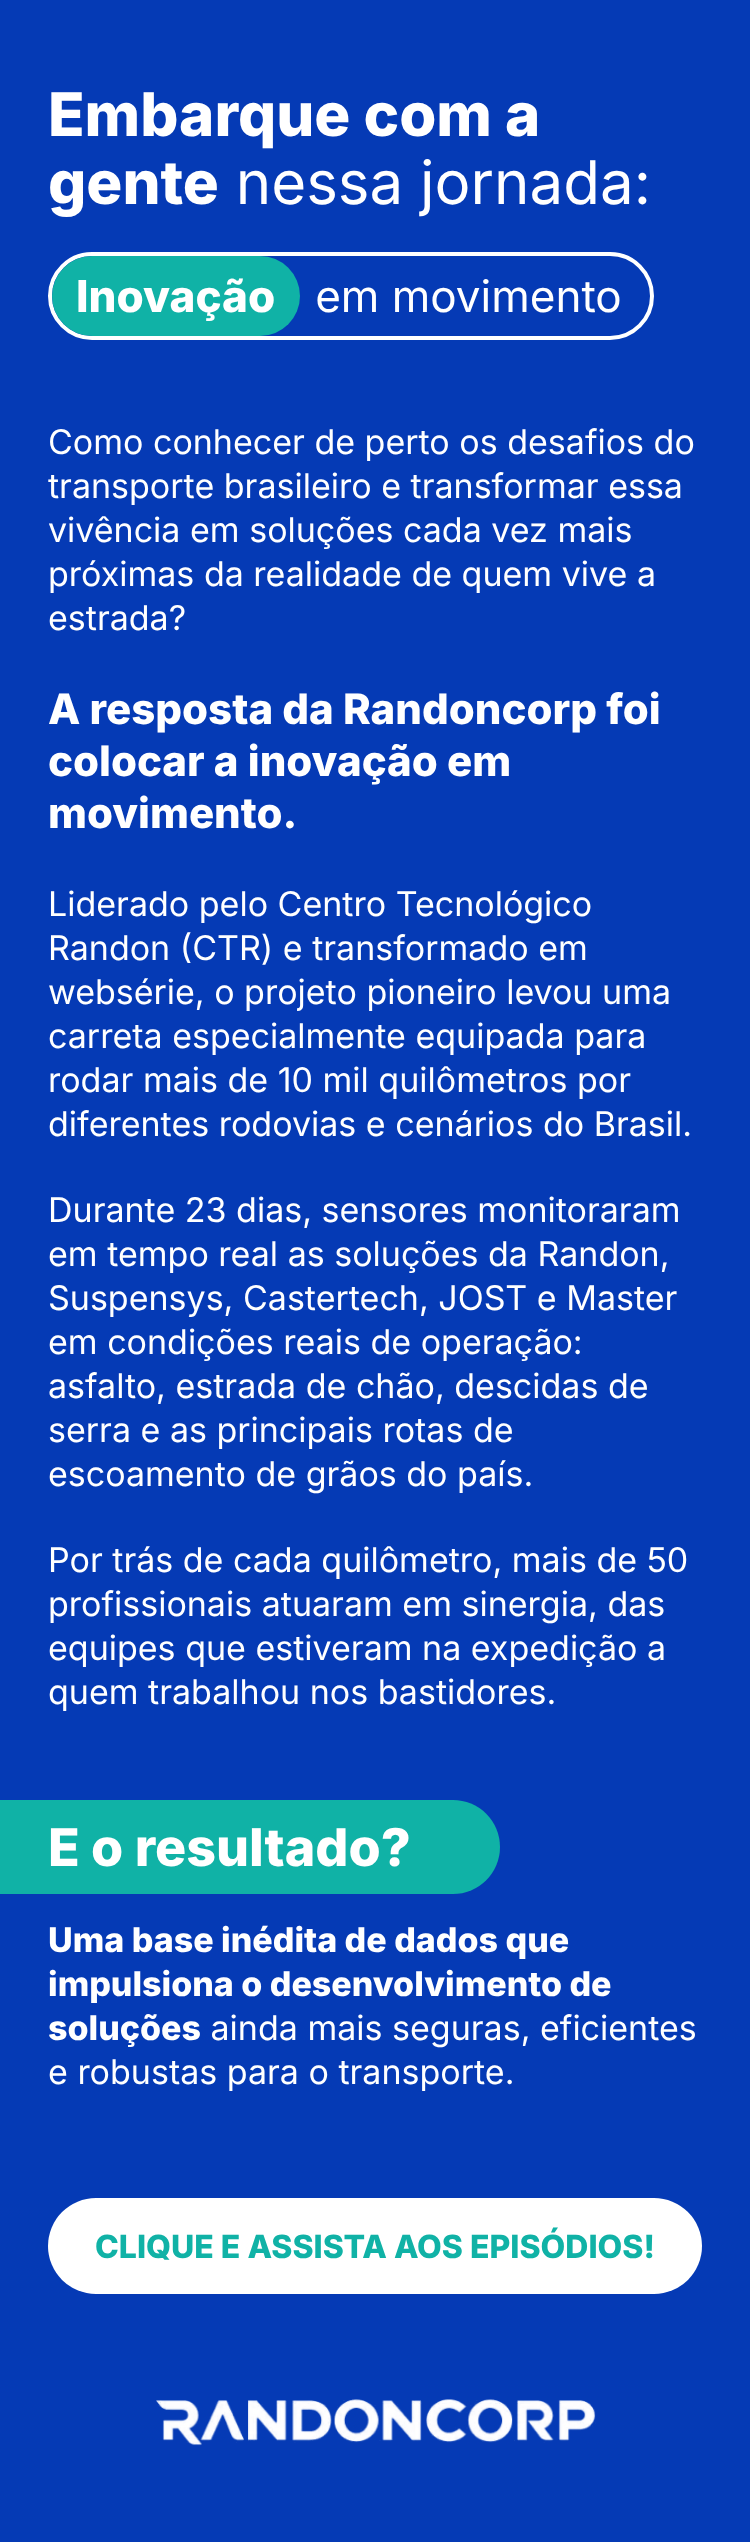
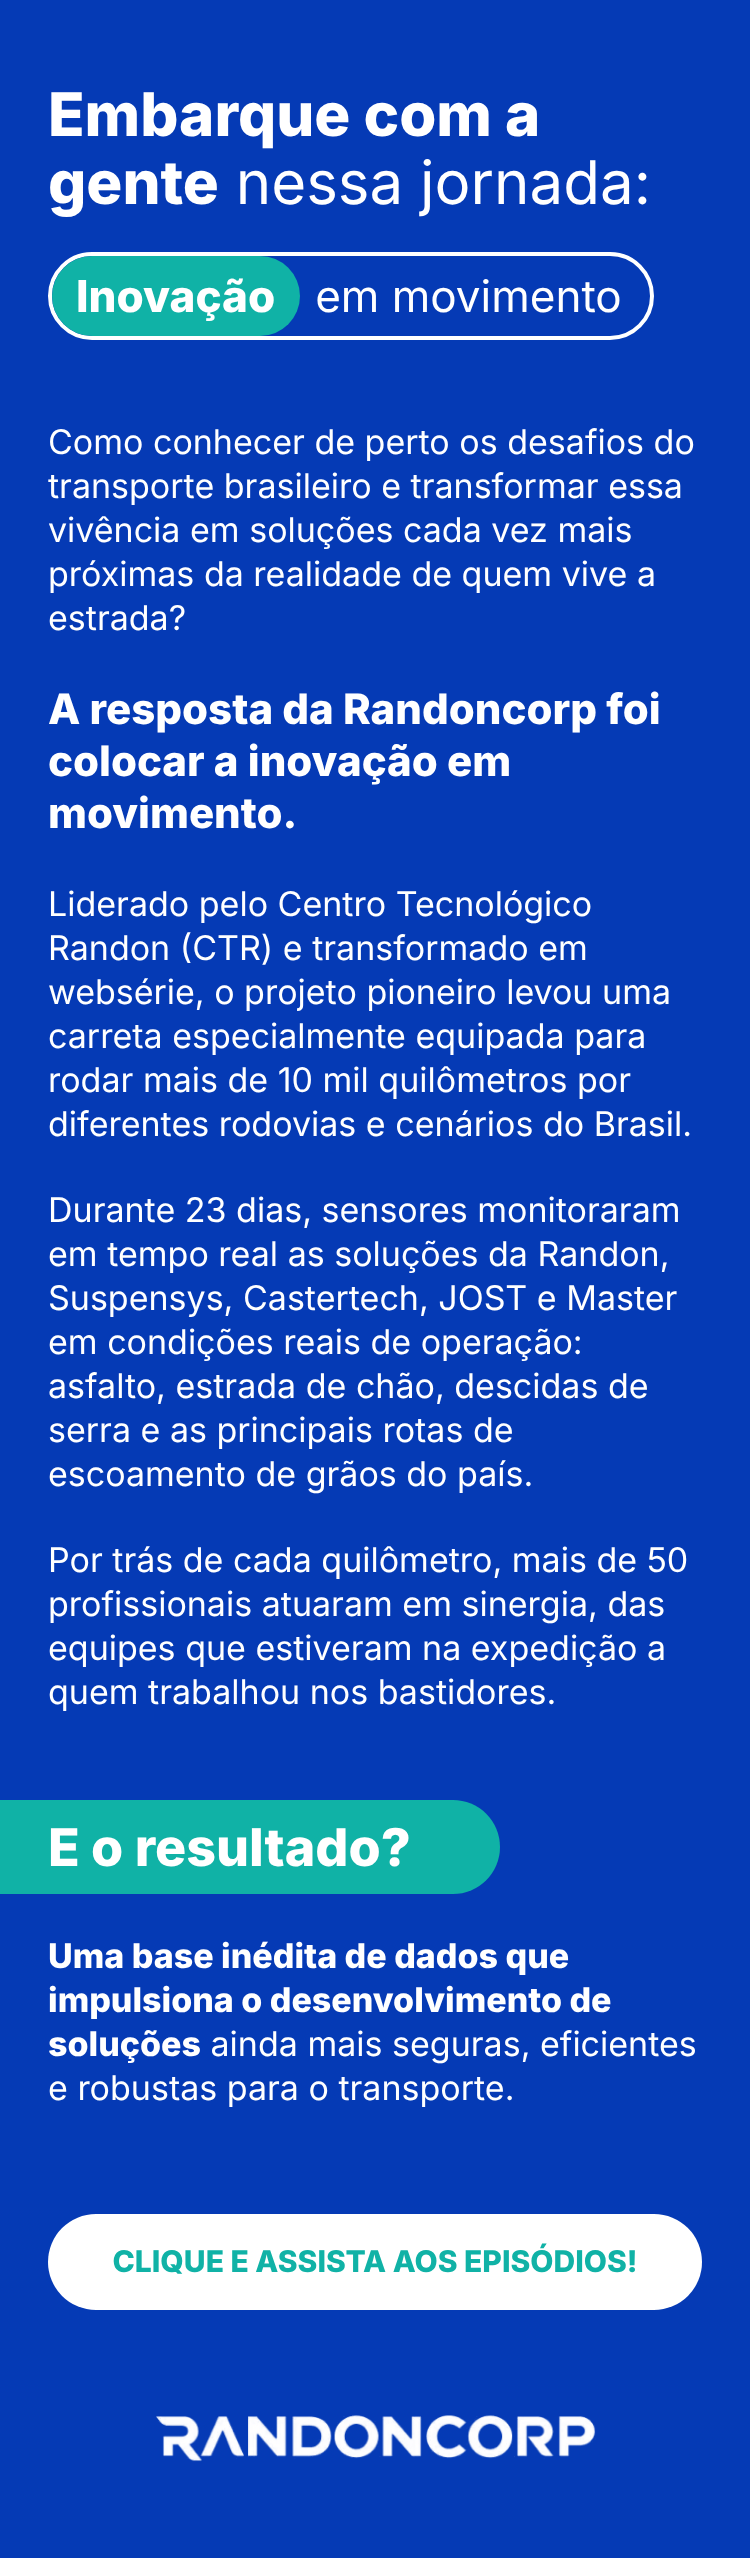
Corrige negrito e respiro do fim do e-mail Inovação em movimento
Sem a fonte web, o peso 800 virava Arial Black no Windows: o negrito
do resultado quebrava a linha e o texto do botão encostava nas bordas.
O negrito passa a usar peso 700 (a Inter carregada só em 400 e 800
continua mostrando a ExtraBold). Também dá mais espaço entre a faixa
"E o resultado?" e o texto, e margem interna no botão.

Claude-Session: https://claude.ai/code/session_013Jm4N9ykJH8YMUqqw479Cd

diff --git a/email-randoncorp-inovacao-em-movimento/email-inovacao-em-movimento.html b/email-randoncorp-inovacao-em-movimento/email-inovacao-em-movimento.html
@@ -16,6 +16,9 @@
 </style>
 <![endif]-->
 <!--[if !mso]><!-->
+<!-- O negrito do HTML usa peso 700. A Inter só é carregada em 400 e 800, então quem tem a fonte web
+     mostra a ExtraBold (800); quem cai no Arial mostra Arial Bold. Com peso 800, o Windows troca
+     Arial por Arial Black, que é mais larga e quebra as linhas. -->
 <link href="https://fonts.googleapis.com/css2?family=Inter:wght@400;800&display=swap" rel="stylesheet">
 <!--<![endif]-->
 <style>
@@ -47,8 +50,8 @@
     .lead-m { font-size: 21px !important; line-height: 26px !important; }
     .tab-m { width: 250px !important; }
     .tab-t { padding-left: 24px !important; font-size: 26px !important; }
-    .res-m { padding: 12px 24px 40px 24px !important; }
-    .btn-m { font-size: 16px !important; }
+    .res-m { padding: 20px 24px 40px 24px !important; }
+    .btn-m { font-size: 15px !important; padding: 0 10px !important; }
     .logo-m { padding: 40px 0 48px 0 !important; }
     .logo-img { width: 220px !important; height: auto !important; }
   }
@@ -76,7 +79,7 @@
           <!-- Título -->
           <tr>
             <td class="px-m top-m" style="padding:64px 64px 0 64px;">
-              <h1 class="h1-m" style="margin:0; font-family:'Inter', Arial, Helvetica, sans-serif; font-size:36px; line-height:39px; font-weight:400; color:#FFFFFF; mso-line-height-rule:exactly;"><span style="font-weight:800;">Embarque com a<br>gente</span> nessa jornada:</h1>
+              <h1 class="h1-m" style="margin:0; font-family:'Inter', Arial, Helvetica, sans-serif; font-size:36px; line-height:39px; font-weight:400; color:#FFFFFF; mso-line-height-rule:exactly;"><span style="font-weight:700;">Embarque com a<br>gente</span> nessa jornada:</h1>
             </td>
           </tr>
 
@@ -88,7 +91,7 @@
                   <td class="pill-o" style="border:2px solid #FFFFFF; border-radius:26px; padding:0;">
                     <table role="presentation" cellpadding="0" cellspacing="0" border="0" style="border-collapse:separate;">
                       <tr>
-                        <td class="pill-a" bgcolor="#10B2A6" height="48" style="height:48px; padding:0 15px; border-radius:24px; background-color:#10B2A6; font-family:'Inter', Arial, Helvetica, sans-serif; font-size:29px; line-height:48px; font-weight:800; color:#FFFFFF; white-space:nowrap; mso-line-height-rule:exactly;">Inovação</td>
+                        <td class="pill-a" bgcolor="#10B2A6" height="48" style="height:48px; padding:0 15px; border-radius:24px; background-color:#10B2A6; font-family:'Inter', Arial, Helvetica, sans-serif; font-size:29px; line-height:48px; font-weight:700; color:#FFFFFF; white-space:nowrap; mso-line-height-rule:exactly;">Inovação</td>
                         <td class="pill-b" height="48" style="height:48px; padding:0 9px 0 8px; font-family:'Inter', Arial, Helvetica, sans-serif; font-size:29px; line-height:48px; font-weight:400; color:#FFFFFF; white-space:nowrap; mso-line-height-rule:exactly;">em movimento</td>
                       </tr>
                     </table>
@@ -115,7 +118,7 @@
                         </td>
                       </tr>
                       <tr>
-                        <td class="px-m lead-m" style="padding:22px 0 0 64px; font-family:'Inter', Arial, Helvetica, sans-serif; font-size:22px; line-height:26px; font-weight:800; color:#FFFFFF; mso-line-height-rule:exactly;">
+                        <td class="px-m lead-m" style="padding:22px 0 0 64px; font-family:'Inter', Arial, Helvetica, sans-serif; font-size:22px; line-height:26px; font-weight:700; color:#FFFFFF; mso-line-height-rule:exactly;">
                           A resposta da Randoncorp<br class="br-d">
                           foi colocar a inovação em<br class="br-d">
                           movimento.
@@ -153,7 +156,7 @@
                         <td style="padding:43px 0 0 0;">
                           <table role="presentation" class="tab-m" width="285" cellpadding="0" cellspacing="0" border="0" style="width:285px; border-collapse:separate;">
                             <tr>
-                              <td class="tab-t" bgcolor="#10B2A6" height="47" style="height:47px; padding:0 0 0 64px; border-radius:0 24px 24px 0; background-color:#10B2A6; font-family:'Inter', Arial, Helvetica, sans-serif; font-size:28px; line-height:47px; font-weight:800; color:#FFFFFF; white-space:nowrap; mso-line-height-rule:exactly;">E o resultado?</td>
+                              <td class="tab-t" bgcolor="#10B2A6" height="47" style="height:47px; padding:0 0 0 64px; border-radius:0 24px 24px 0; background-color:#10B2A6; font-family:'Inter', Arial, Helvetica, sans-serif; font-size:28px; line-height:47px; font-weight:700; color:#FFFFFF; white-space:nowrap; mso-line-height-rule:exactly;">E o resultado?</td>
                             </tr>
                           </table>
                         </td>
@@ -170,8 +173,8 @@
 
           <!-- Resultado -->
           <tr>
-            <td class="res-m" style="padding:12px 144px 44px 64px; font-family:'Inter', Arial, Helvetica, sans-serif; font-size:17px; line-height:22px; color:#FFFFFF; mso-line-height-rule:exactly;">
-              <strong style="font-weight:800;">Uma base inédita de dados que impulsiona<br class="br-d">
+            <td class="res-m" style="padding:20px 144px 44px 64px; font-family:'Inter', Arial, Helvetica, sans-serif; font-size:17px; line-height:22px; color:#FFFFFF; mso-line-height-rule:exactly;">
+              <strong style="font-weight:700;">Uma base inédita de dados que impulsiona<br class="br-d">
               o desenvolvimento de soluções</strong> ainda mais<br class="br-d">
               seguras, eficientes e robustas para o<br class="br-d">
               transporte.
@@ -194,7 +197,7 @@
                     </v:roundrect>
                     <![endif]-->
                     <!--[if !mso]><!-->
-                    <a class="btn-m" href="https://www.youtube.com/@Randoncorp" target="_blank" style="display:block; background-color:#FFFFFF; background-image:linear-gradient(#FFFFFF, #FFFFFF); border-radius:24px; font-family:'Inter', Arial, Helvetica, sans-serif; font-size:20px; line-height:48px; font-weight:800; color:#10B2A6; text-align:center; text-decoration:none; white-space:nowrap; -webkit-text-size-adjust:none;">CLIQUE E ASSISTA AOS EPISÓDIOS!</a>
+                    <a class="btn-m" href="https://www.youtube.com/@Randoncorp" target="_blank" style="display:block; background-color:#FFFFFF; background-image:linear-gradient(#FFFFFF, #FFFFFF); border-radius:24px; font-family:'Inter', Arial, Helvetica, sans-serif; font-size:19px; line-height:48px; font-weight:700; color:#10B2A6; text-align:center; text-decoration:none; padding:0 16px; -webkit-text-size-adjust:none;">CLIQUE E ASSISTA AOS EPISÓDIOS!</a>
                     <!--<![endif]-->
                   </td>
                   <td class="hide-m" width="102" style="width:102px; font-size:0; line-height:0;">&nbsp;</td>

diff --git a/email-randoncorp-inovacao-em-movimento/README.md b/email-randoncorp-inovacao-em-movimento/README.md
@@ -32,6 +32,7 @@ As imagens foram recortadas do layout (cerca de 1,5× o tamanho exibido). Se o t
 - **Todo o texto é texto de verdade**, não imagem. Ele aparece mesmo quando o leitor bloqueia imagens (o Outlook bloqueia por padrão), conta a favor na entrega e pode ser lido por leitores de tela. Só as linhas decorativas e o logo são imagens; o logo tem texto alternativo.
 - **Estrutura em tabelas com estilos inline**, que é o que Outlook, Gmail, Yahoo e Apple Mail entendem igual.
 - **Fonte:** Inter (Google Fonts) onde o leitor aceita fonte web (Apple Mail, iPhone, Outlook para Mac). Nos outros (Gmail, Outlook para Windows, Yahoo), entra Arial. As quebras de linha do layout estão fixas no desktop, então o texto quebra nos mesmos pontos com qualquer uma das duas fontes.
+- **Negrito em peso 700:** a Inter é carregada só em 400 e 800, então quem tem a fonte web mostra a ExtraBold (800), igual ao layout. Quem cai no Arial mostra Arial Bold. Com peso 800 direto no HTML, o Windows troca Arial por Arial Black, que é bem mais larga: o negrito estoura a linha e o texto do botão encosta nas bordas.
 - **Outlook para Windows:** o botão é desenhado em VML, então fica arredondado e clicável. O selo "Inovação em movimento" e a faixa "E o resultado?" aparecem com cantos retos, porque esse Outlook não faz cantos arredondados em HTML.
 - **Celular (até 620 px):** as linhas decorativas laterais somem, o texto ocupa a largura toda com margem de 24 px, as quebras fixas são desligadas e o título, o selo e o botão diminuem. Leitores sem suporte a media query (ex.: app do Gmail com conta que não é Gmail) mostram a versão de 600 px reduzida.
 - **Texto de pré-visualização** (o que aparece ao lado do assunto na caixa de entrada): "Conheça o projeto que levou uma carreta por mais de 10 mil km pelas estradas do Brasil." Ele fica logo no começo do `<body>` e pode ser editado lá.
